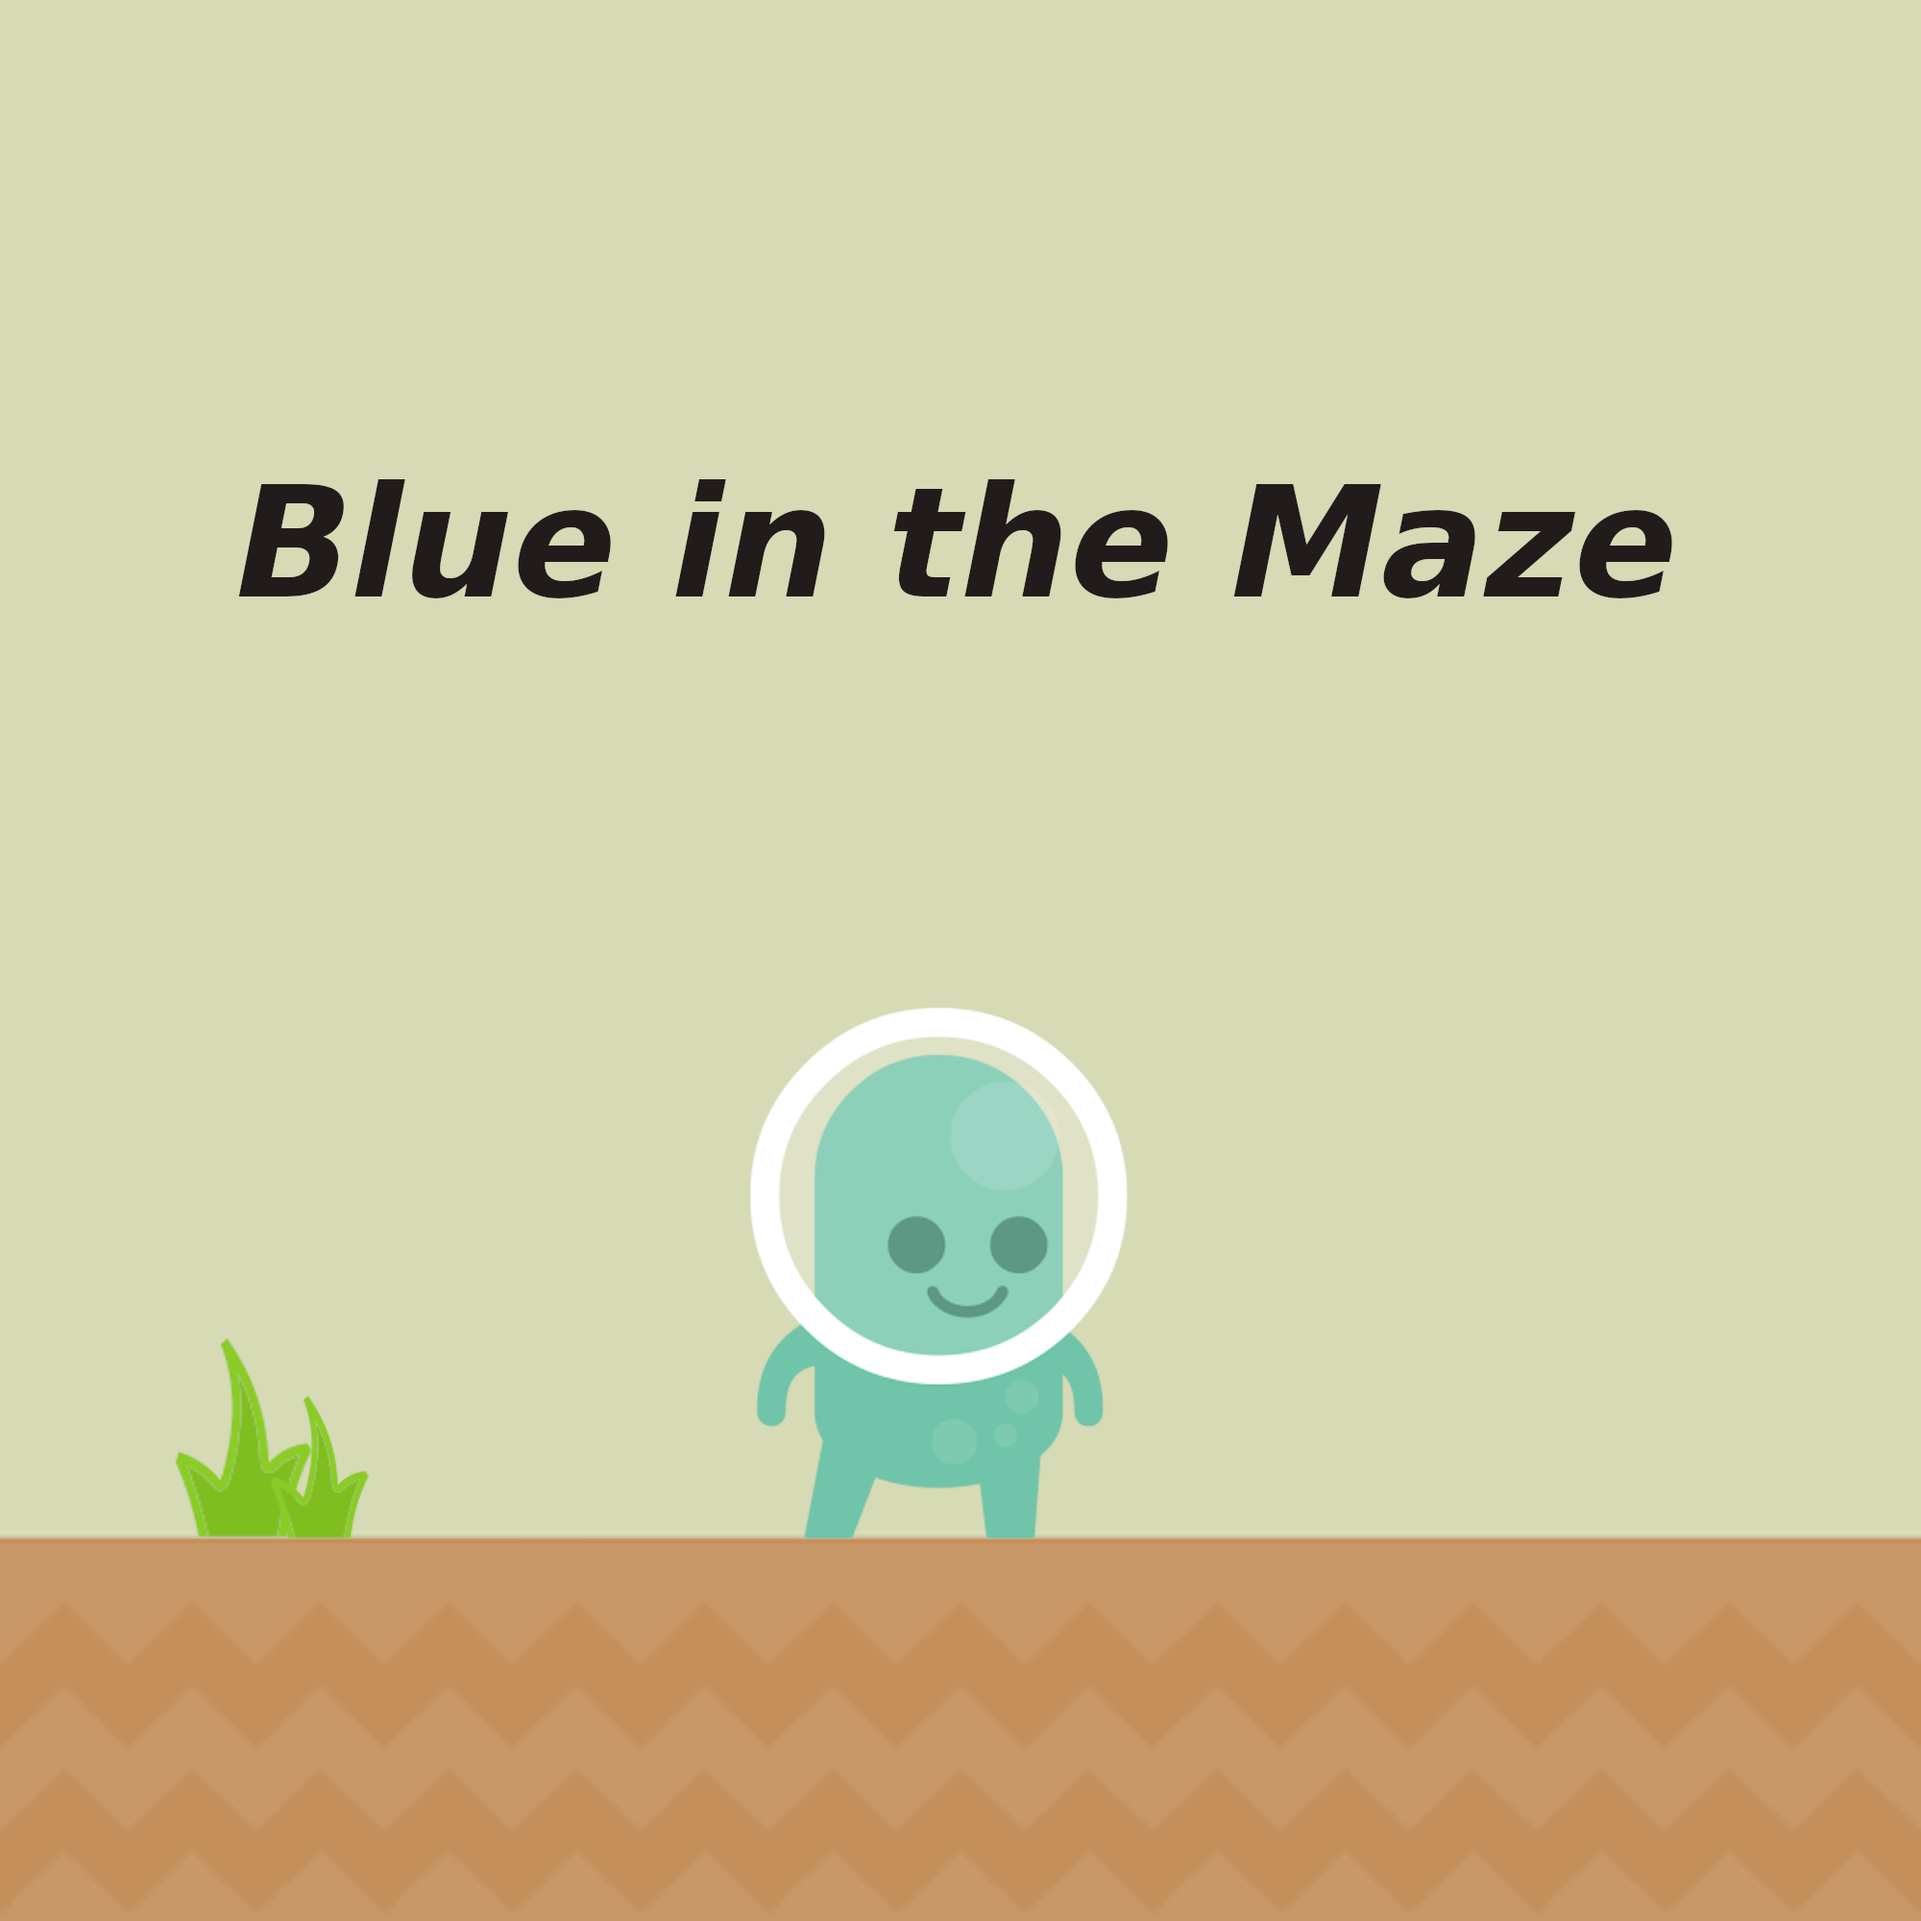
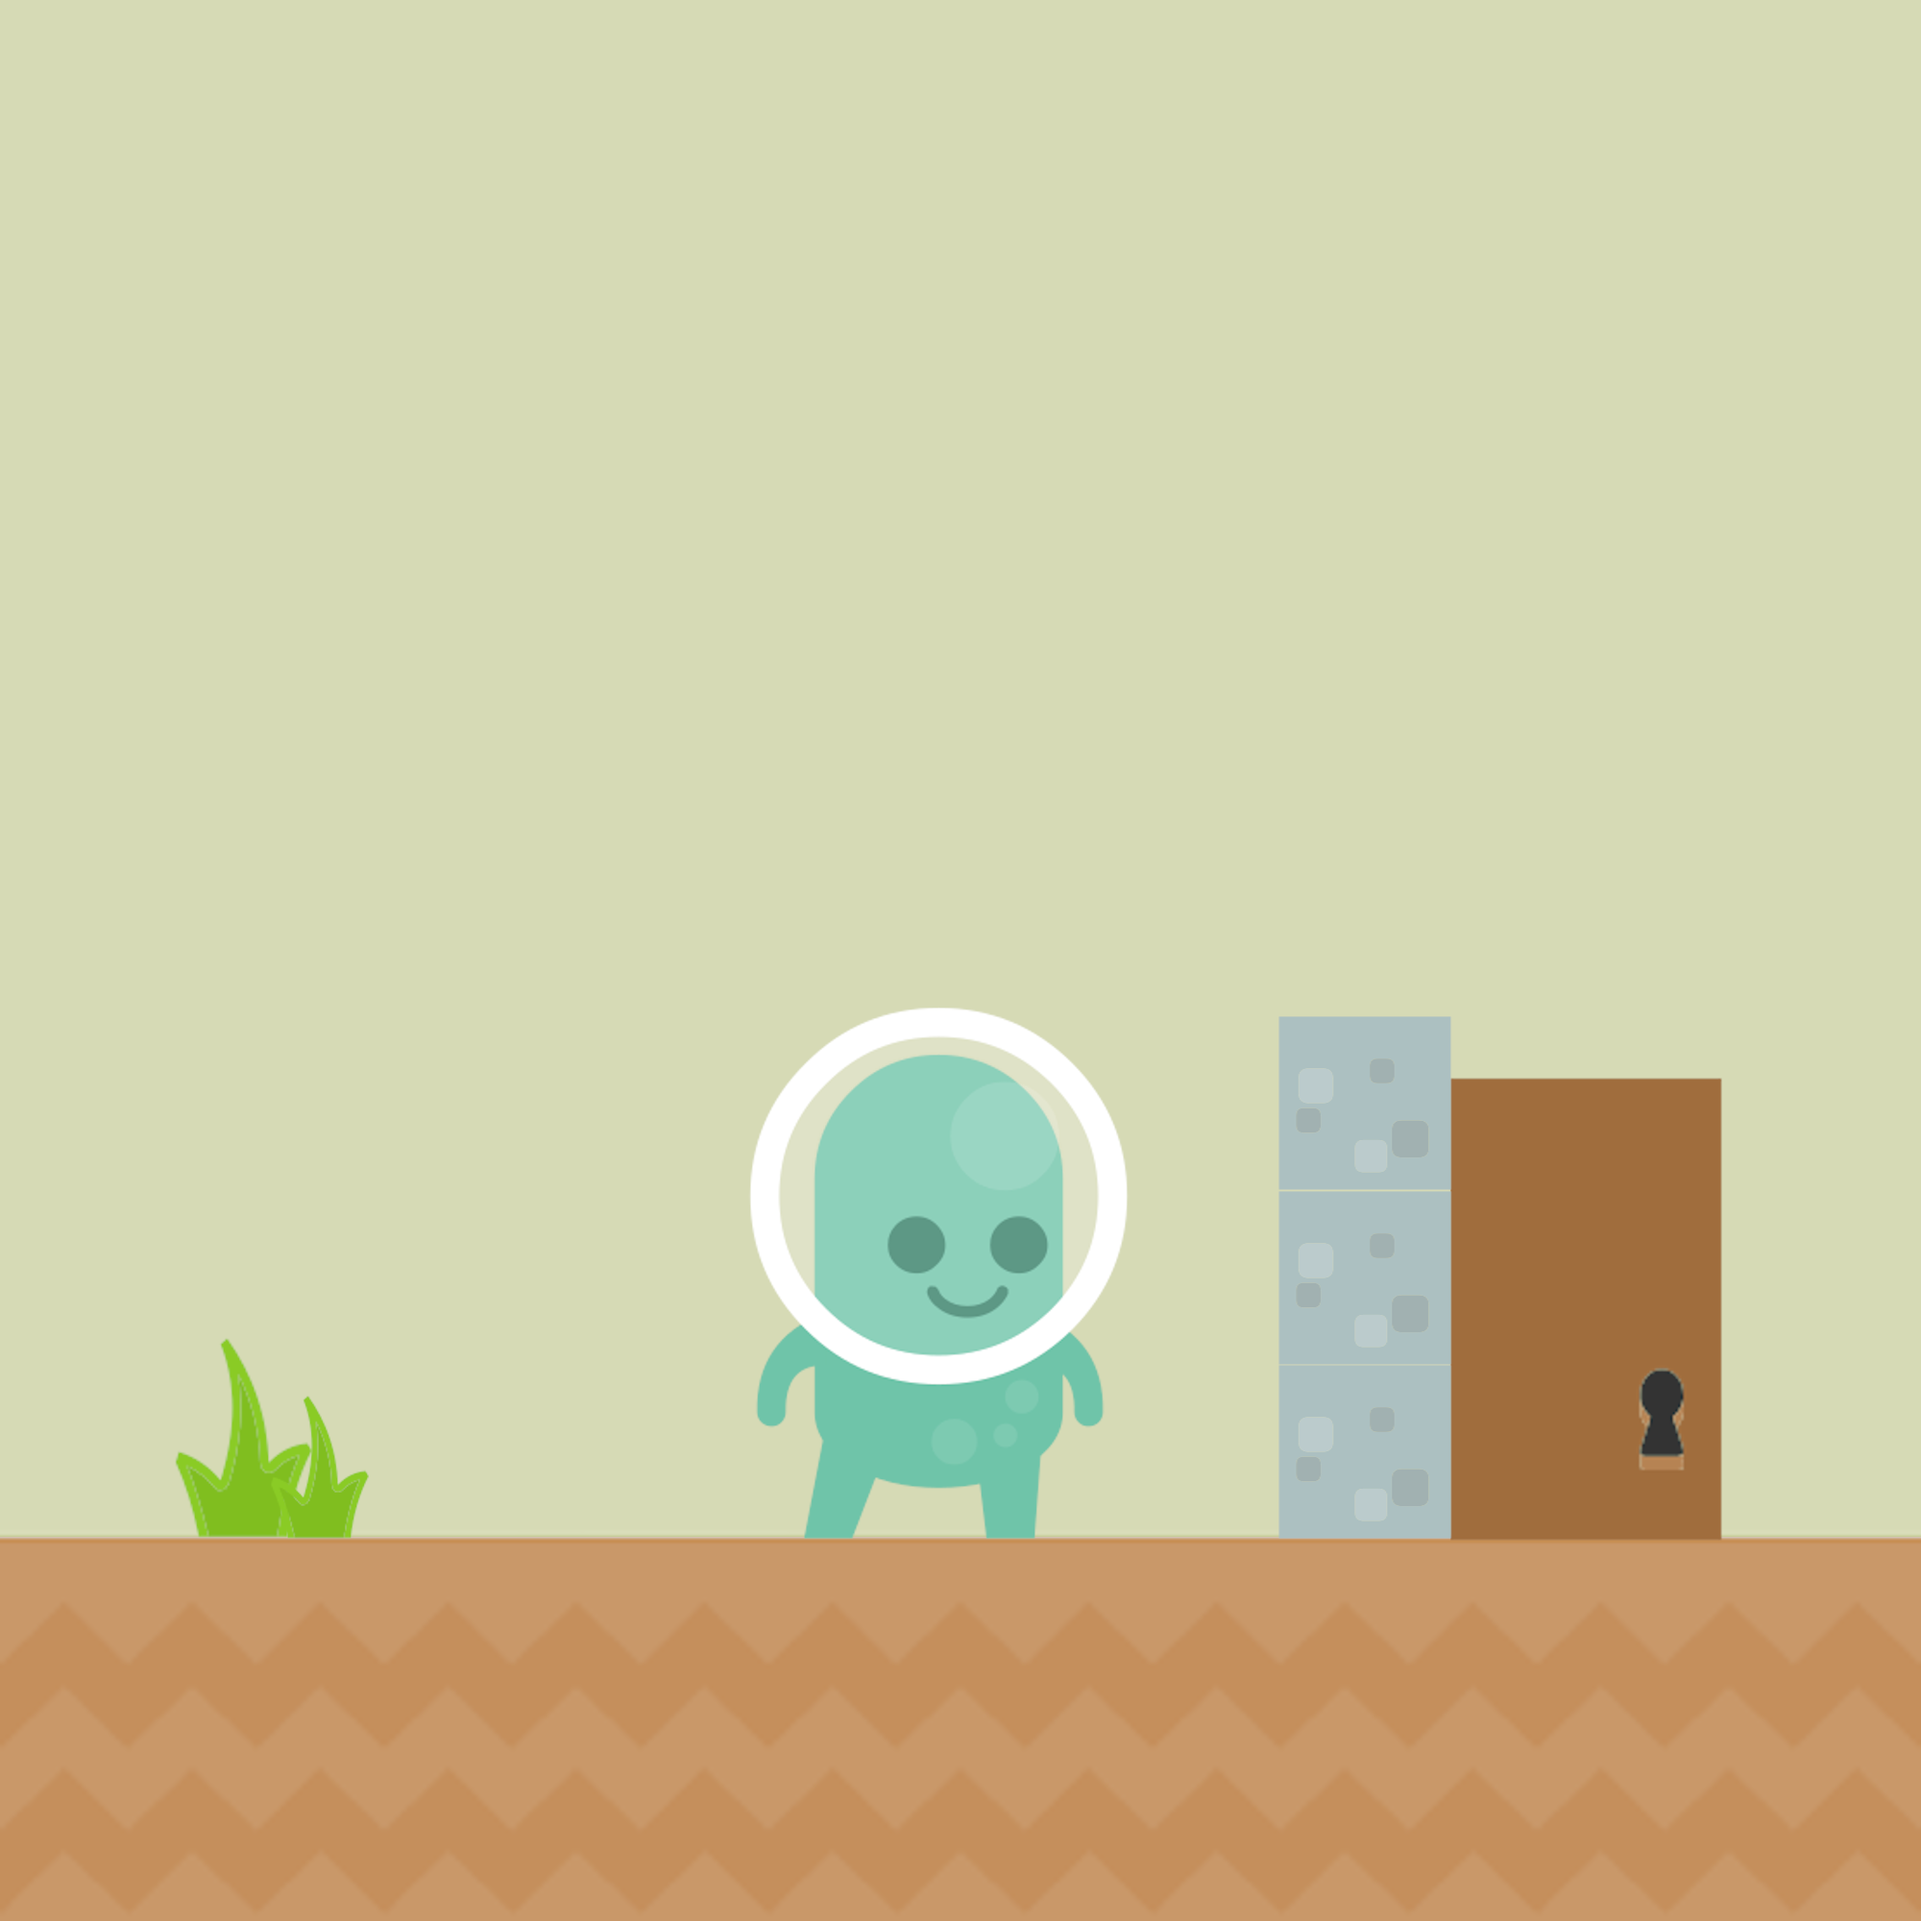
added children to the GameScreen comp

Changed region(s): [[0.651, 0.527, 0.899, 0.806], [0.465, 0.248, 0.868, 0.31], [0.124, 0.248, 0.434, 0.31]]

diff --git a/src/Components/Layout/GameScreen/GameScreen.css b/src/Components/Layout/GameScreen/GameScreen.css
@@ -4,28 +4,17 @@
     width: 100%;
     height: auto;
     max-width: 375px; }
-  #game-screen h1 {
+  #game-screen .screenHead {
     position: absolute;
     left: 10%;
     width: 80%;
     font-weight: 600; }
     @media (min-width: 250px) {
-      #game-screen h1 {
+      #game-screen .screenHead {
         top: 20%;
         font-size: 2rem; } }
     @media (min-width: 400px) {
-      #game-screen h1 {
-        font-size: 24px; } }
-  #game-screen #textBox {
-    position: absolute;
-    left: 10%;
-    width: 80%; }
-    @media (min-width: 250px) {
-      #game-screen #textBox {
-        top: 30%;
-        font-size: 2rem; } }
-    @media (min-width: 400px) {
-      #game-screen #textBox {
+      #game-screen .screenHead {
         font-size: 24px; } }
 
 /*# sourceMappingURL=GameScreen.css.map */

diff --git a/src/Components/Layout/GameScreen/GameScreen.scss b/src/Components/Layout/GameScreen/GameScreen.scss
@@ -10,7 +10,7 @@
 
 
   //Text with the screen's name
-  h1 {
+  .screenHead {
     position: absolute;
 
     left: 10%;
@@ -25,18 +25,18 @@
     }
   }
 
-  #textBox {
-    position: absolute;
-
-    left: 10%;
-    width: 80%;
-    @media (min-width: 250px) {
-      top: 30%;
-      font-size: 2rem;
-    }
-    @media (min-width: 400px) {
-      font-size: 24px;
-    }
-  }
+  //#textBox {
+  //  position: absolute;
+  //
+  //  left: 10%;
+  //  width: 80%;
+  //  @media (min-width: 250px) {
+  //    top: 30%;
+  //    font-size: 2rem;
+  //  }
+  //  @media (min-width: 400px) {
+  //    font-size: 24px;
+  //  }
+  //}
 }
 

diff --git a/src/Components/MazeContainer/StartScreen.js b/src/Components/MazeContainer/StartScreen.js
@@ -8,11 +8,15 @@ const StartScreen = ({onStartClick}) => {
     return (
         <Fragment>
             <GameScreen
-                screenBackground="./intro-image.png"/>
-            <StartButton
-                changeScreen={onStartClick}
-                buttonName={'Start'}
-            />
+                screenBackground="./intro-image.png">
+                <h1>header</h1>
+                <p id={'textBox'}>text area</p>
+                <StartButton
+                    changeScreen={onStartClick}
+                    buttonName={'Start'}
+                />
+            </GameScreen>
+
         </Fragment>
 
     )

diff --git a/src/Components/Layout/GameScreen/GameScreen.js b/src/Components/Layout/GameScreen/GameScreen.js
@@ -1,14 +1,14 @@
 import React, {Fragment} from 'react';
 import './GameScreen.scss';
 
-const GameScreen = ({textArea, screenHeader, screenBackground}) => {
+const GameScreen = ({textArea, screenHeader, screenBackground, children}) => {
 
     return (
         <Fragment>
             <div id={'game-screen'}>
                 <img src={screenBackground} alt="background image"/>
-                <h1>{screenHeader}</h1>
-                <p id={'textBox'}>{textArea}</p>
+                <div className={'screenHead'}>{children}</div>
+
             </div>
         </Fragment>
     )

diff --git a/src/Components/MazeContainer/LevelSelection/LevelSelection.js b/src/Components/MazeContainer/LevelSelection/LevelSelection.js
@@ -31,8 +31,10 @@ const LevelSelection = ({chooseLevel}) => {
             <GameScreen
                 screenBackground="./bg-for-screen-state.png"
                 screenHeader={'Level selection screen'}
-            />
+            >
                 {availableLevel}
+            </GameScreen>
+
         </Fragment>
     )
 };
